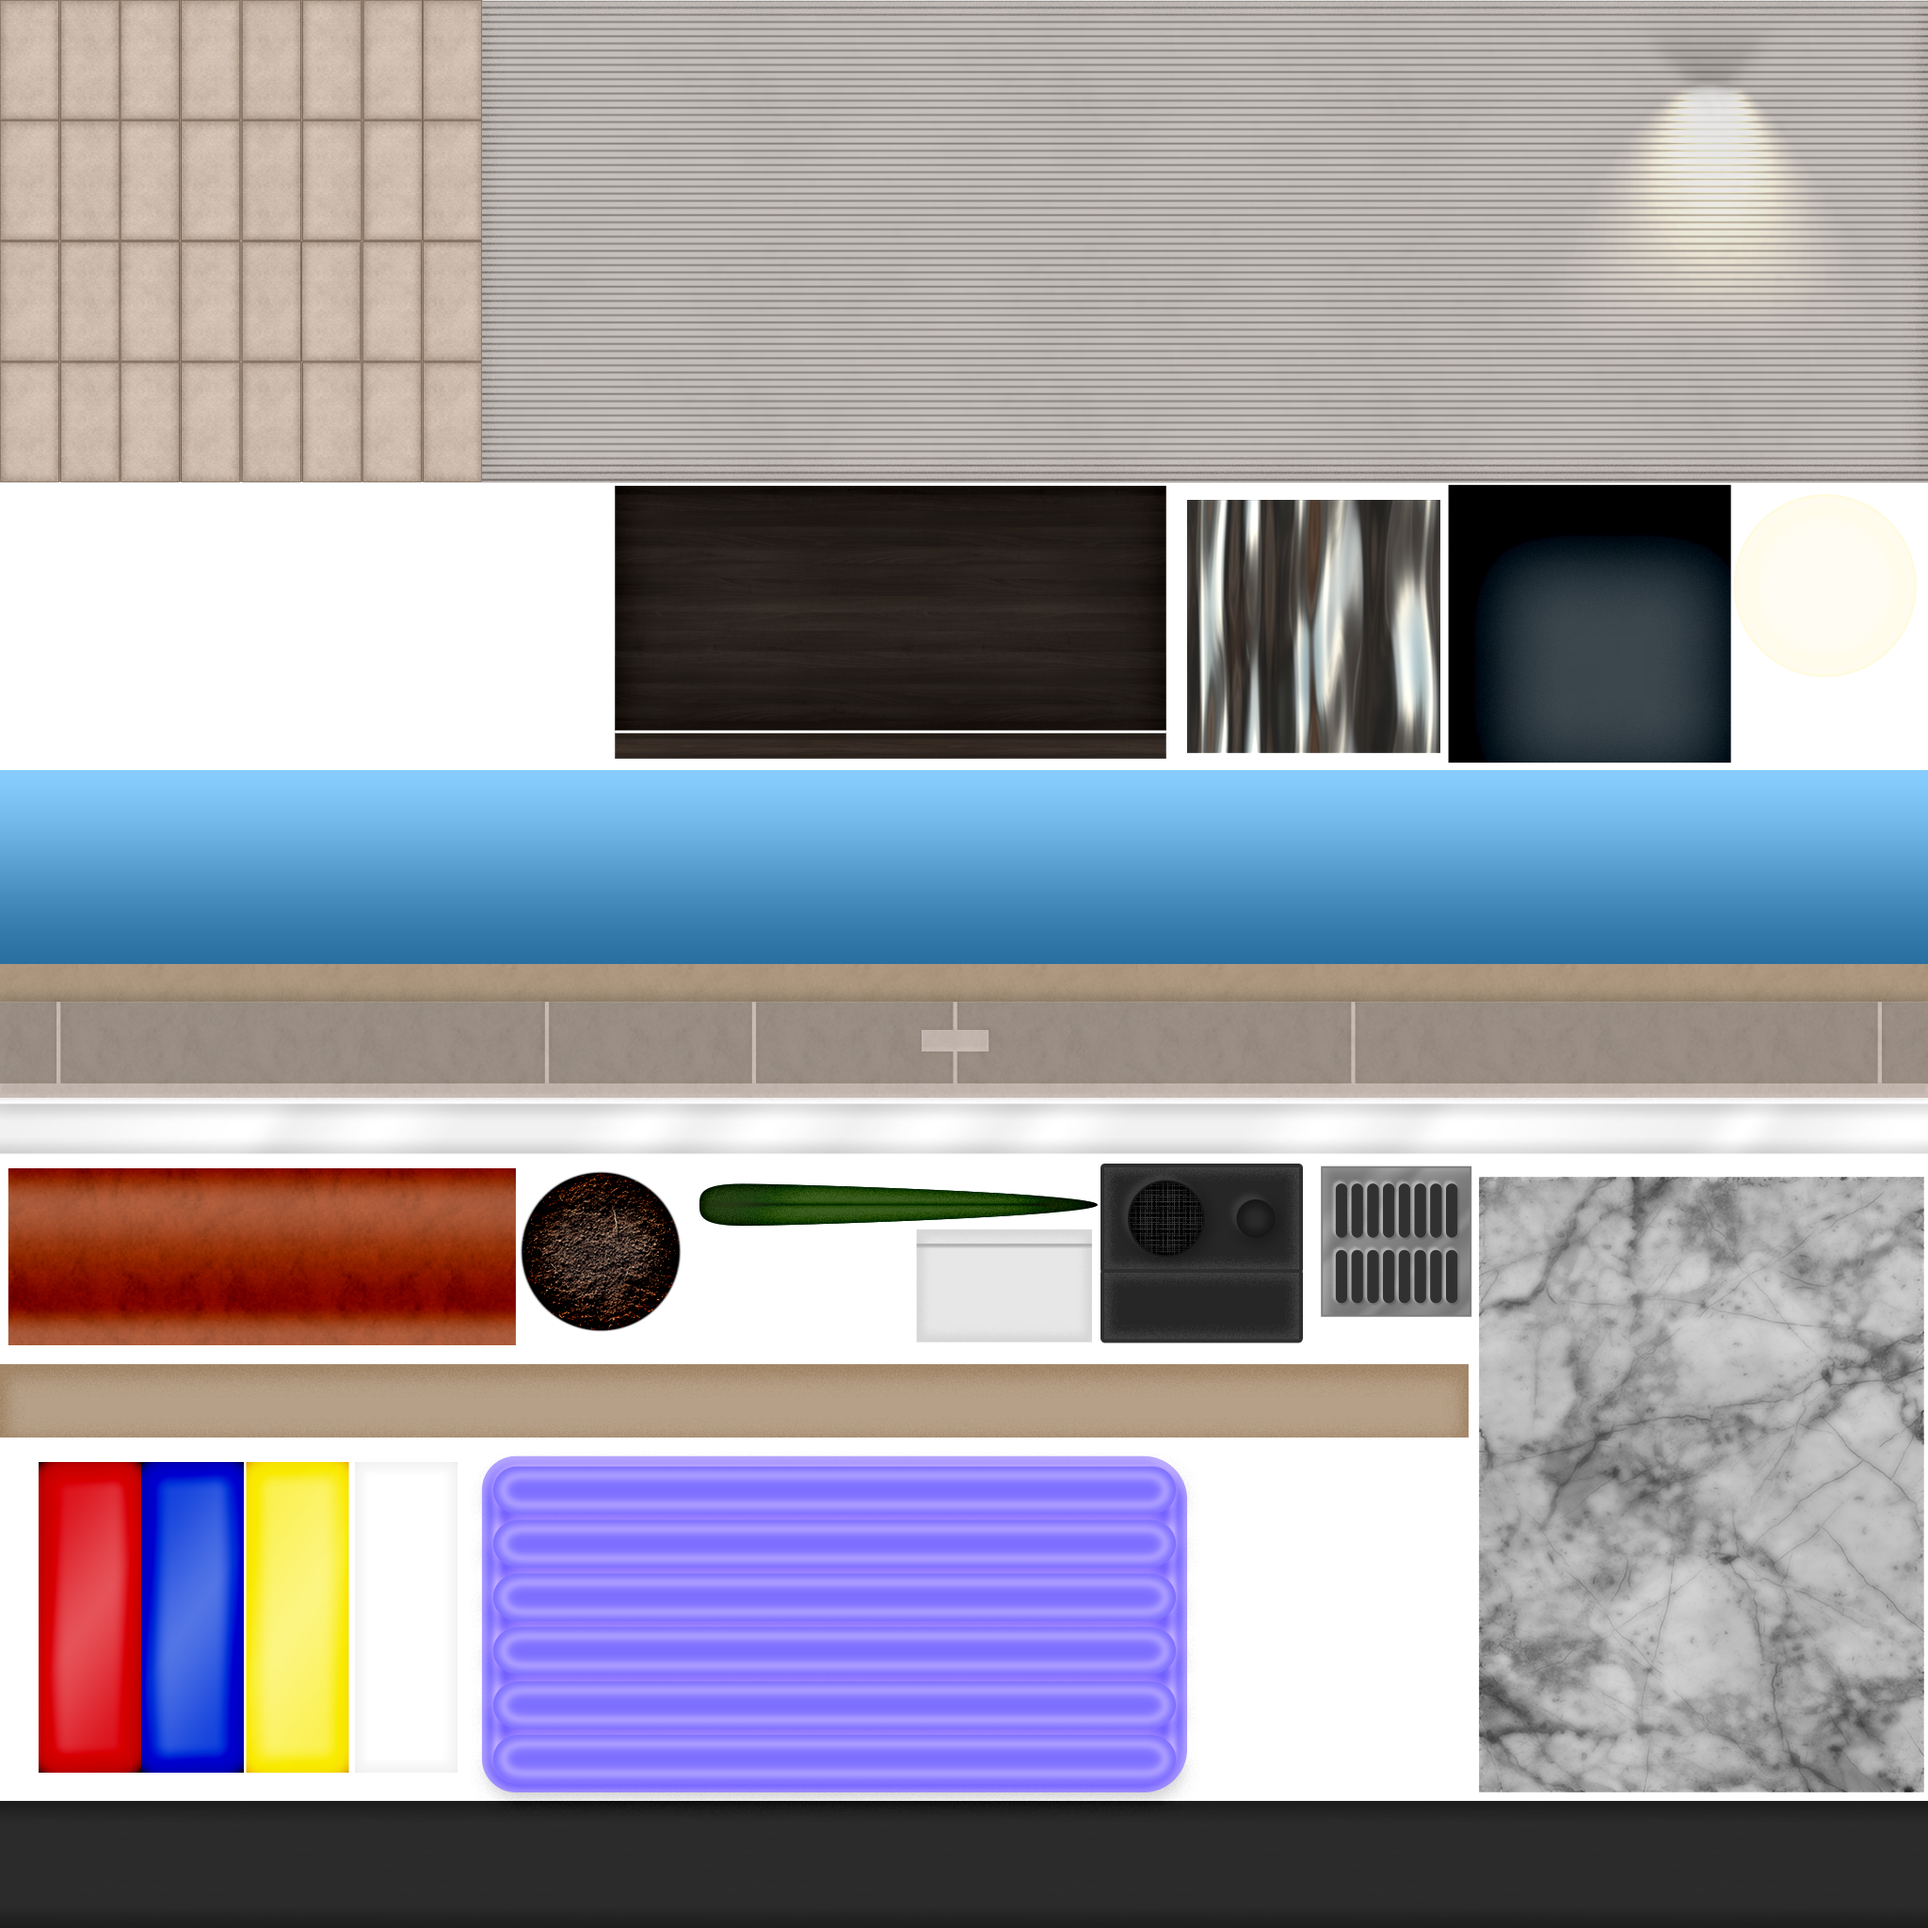
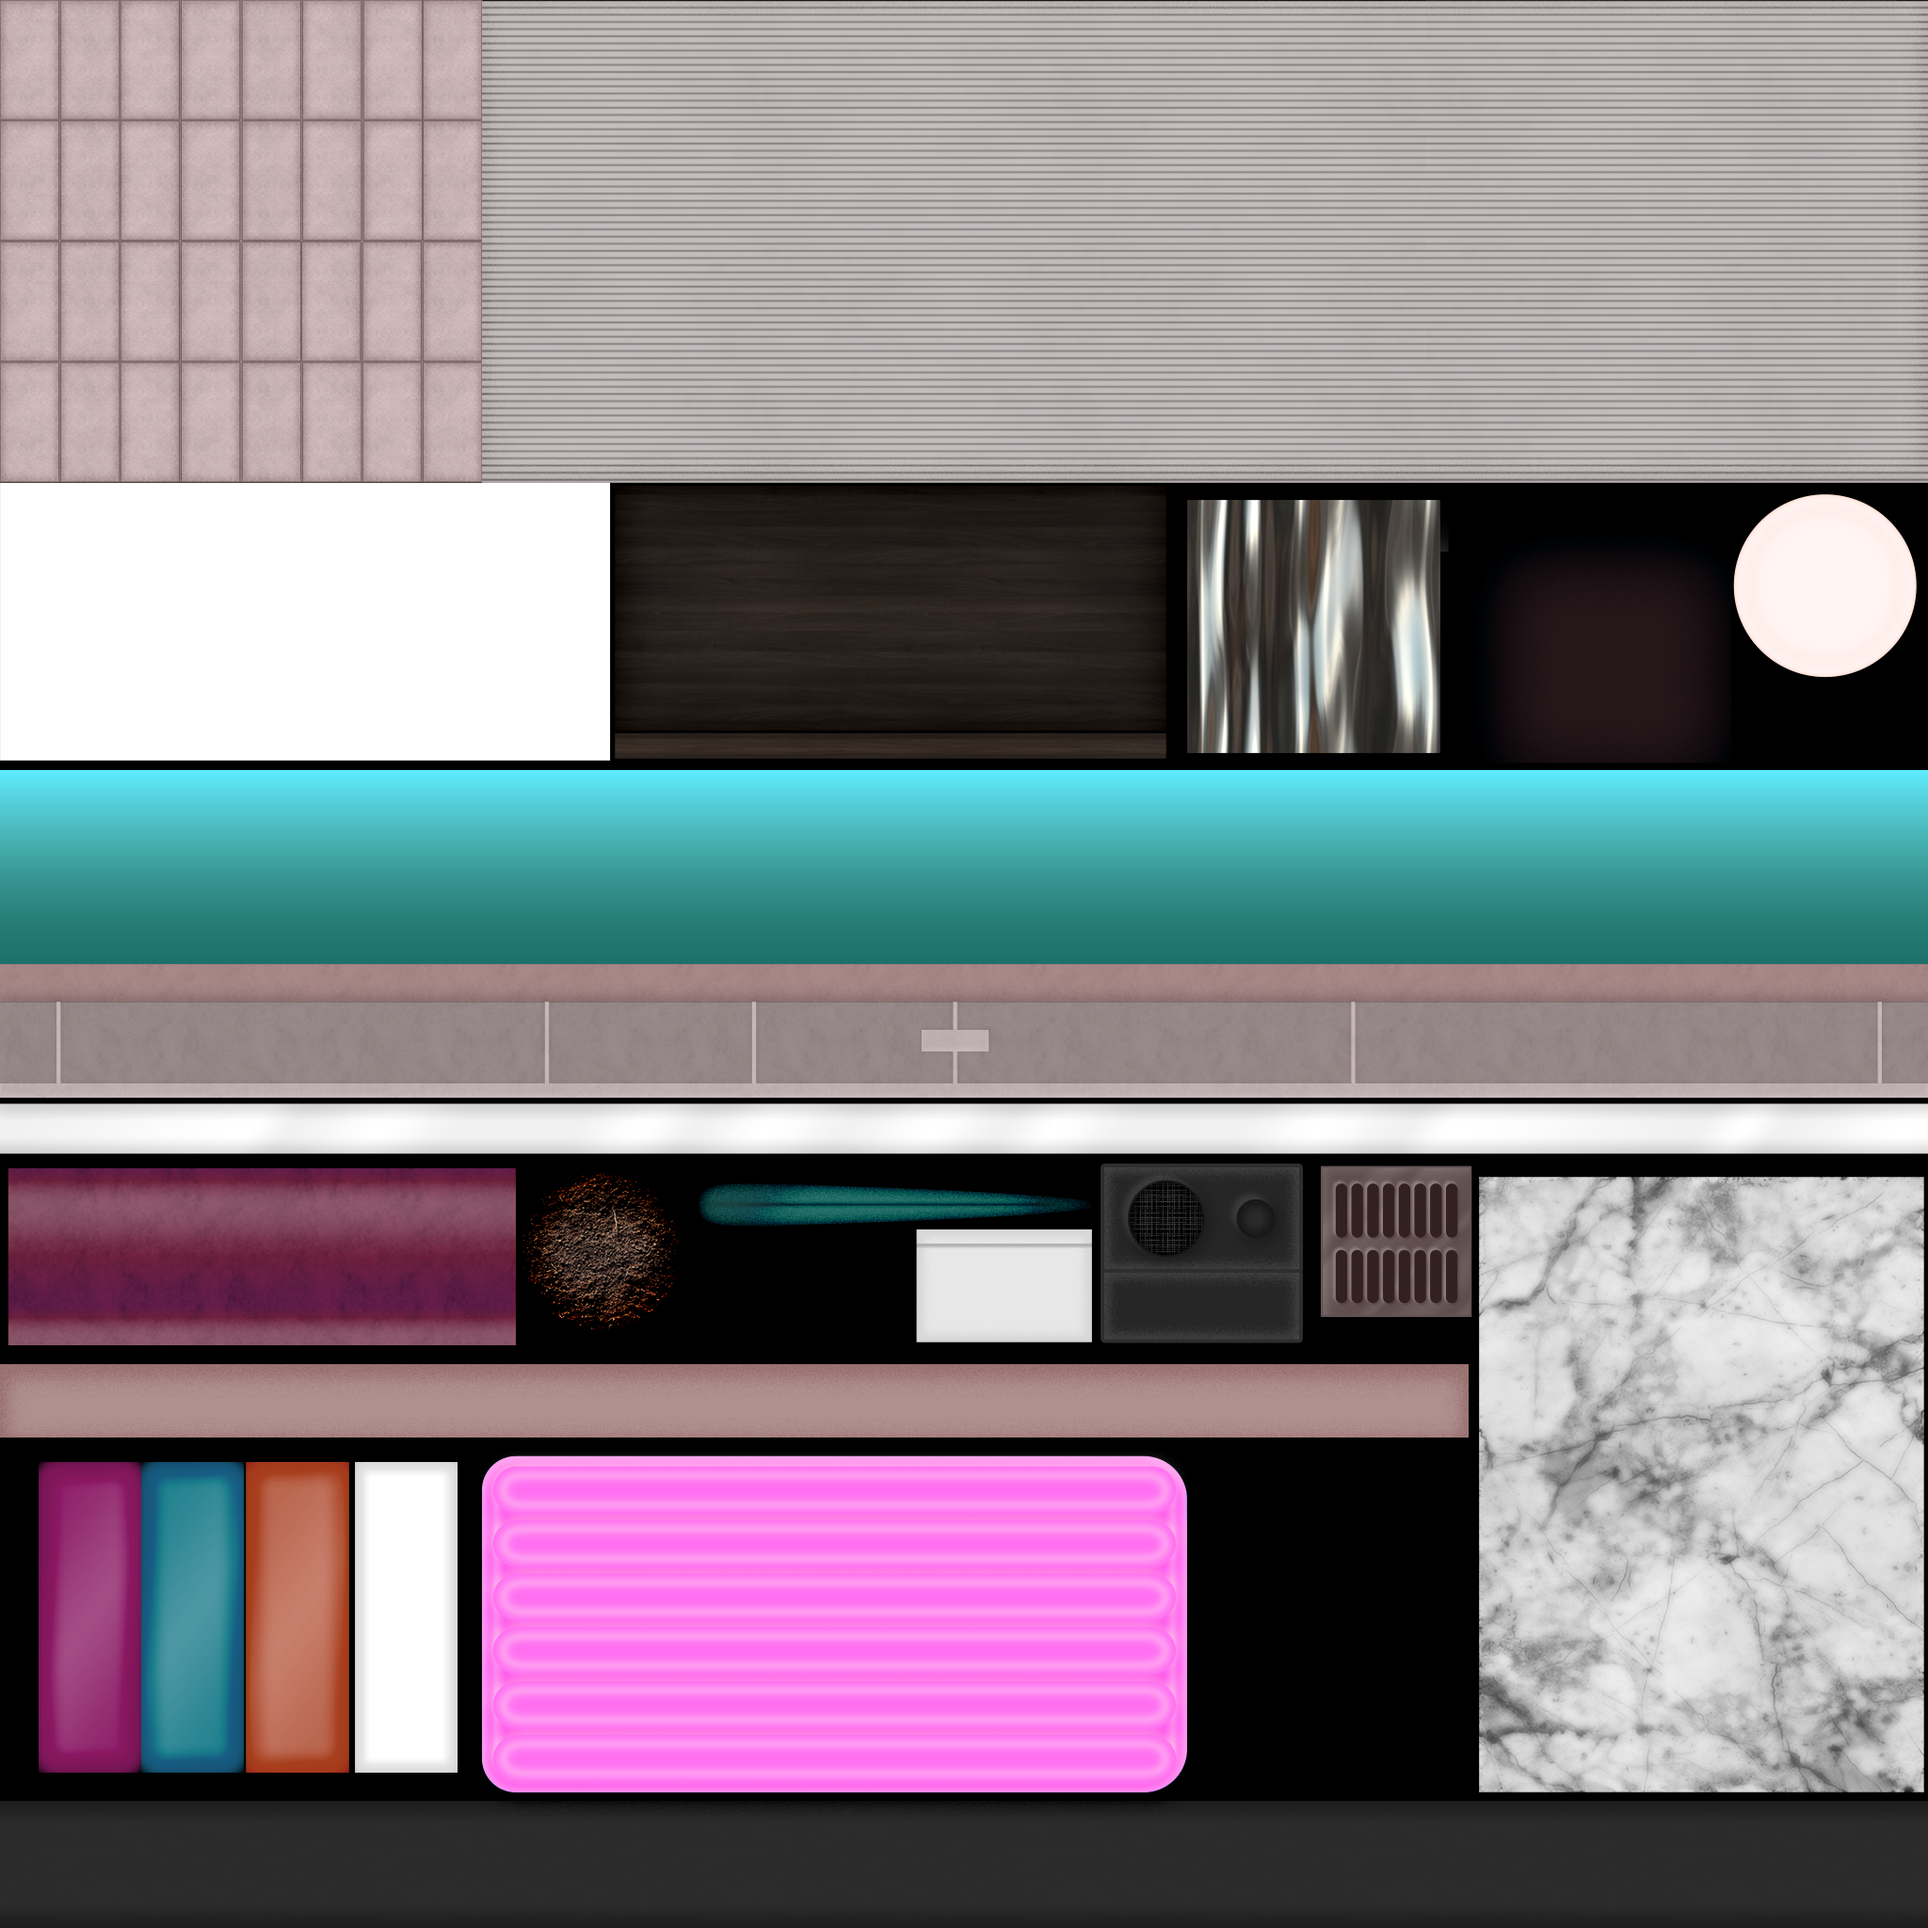
added blend for water, fixed model textures

diff --git a/window/SampleWindow.cpp b/window/SampleWindow.cpp
@@ -26,7 +26,7 @@ SampleWindow::SampleWindow(int width, int height, const std::string &title) {
     glfwWindowHint(GLFW_CONTEXT_VERSION_MAJOR, 4);
     glfwWindowHint(GLFW_CONTEXT_VERSION_MINOR, 6);
     glfwWindowHint(GLFW_RESIZABLE, GL_FALSE);
-    glfwWindowHint(GLFW_SAMPLES, 8);
+    glfwWindowHint(GLFW_SAMPLES, 16);
     this->width = width;
     this->height = height;
     window = glfwCreateWindow(width, height, title.c_str(), nullptr, nullptr);
@@ -126,8 +126,11 @@ void SampleWindow::Init() {
 
     Model *model1 = new Model("../resources/scenes/pool/pool2.obj");
     models["env"] = model1;
-    Model *model2 = new Model("../resources/models/bulb/sphere.obj");
-    models["bulb"] = model2;
+    Model *model2 = new Model("../resources/scenes/pool/pool3.obj");
+    models["env2"] = model2;
+
+    Model *model3 = new Model("../resources/models/bulb/sphere.obj");
+    models["bulb"] = model3;
 
     SampleWindow::InitCubeMap();
 
@@ -146,6 +149,7 @@ void SampleWindow::Update() {
     //ENV
 
     glEnable(GL_DEPTH_TEST);
+
     glUseProgram(shaders["env"]);
     glm::mat4 model = glm::mat4(1.0f);
     model = glm::scale(model, glm::vec3(10.0f));
@@ -154,12 +158,20 @@ void SampleWindow::Update() {
 
     SampleWindow::RenderModel("env", model, shaders["env"]);
     SampleWindow::SendLightingDataToShader(shaders["env"]);
+    glEnable( GL_BLEND );
+    glBlendFunc( GL_ONE_MINUS_SRC_ALPHA, GL_SRC_ALPHA );
+    SampleWindow::RenderModel("env2", model, shaders["env"]);
+    SampleWindow::SendLightingDataToShader(shaders["env"]);
+
+
+    glDisable(GL_BLEND);
     glUseProgram(shaders["base"]);
     model = glm::mat4(1.0f);
 
     model = glm::translate(model, point.position);
     SampleWindow::RenderModel("bulb", model, shaders["base"]);
     SampleWindow::SendLightingDataToShader(shaders["env"]);
+
 
     //skybox
     glDepthFunc(GL_LEQUAL);

diff --git a/render/Model.cpp b/render/Model.cpp
@@ -137,7 +137,7 @@ GLint Model::TextureFromFile(const char *path, const std::string &directory, boo
             dataFormat = GL_RGB;
         }else if (nrComponents == 4)
         {
-            internalFormat = isTextureDiffuse?GL_SRGB_ALPHA:GL_RGBA;
+            internalFormat = isTextureDiffuse?GL_SRGB:GL_RGBA;
             dataFormat = GL_RGBA;
         }
         glBindTexture(GL_TEXTURE_2D, textureID);
